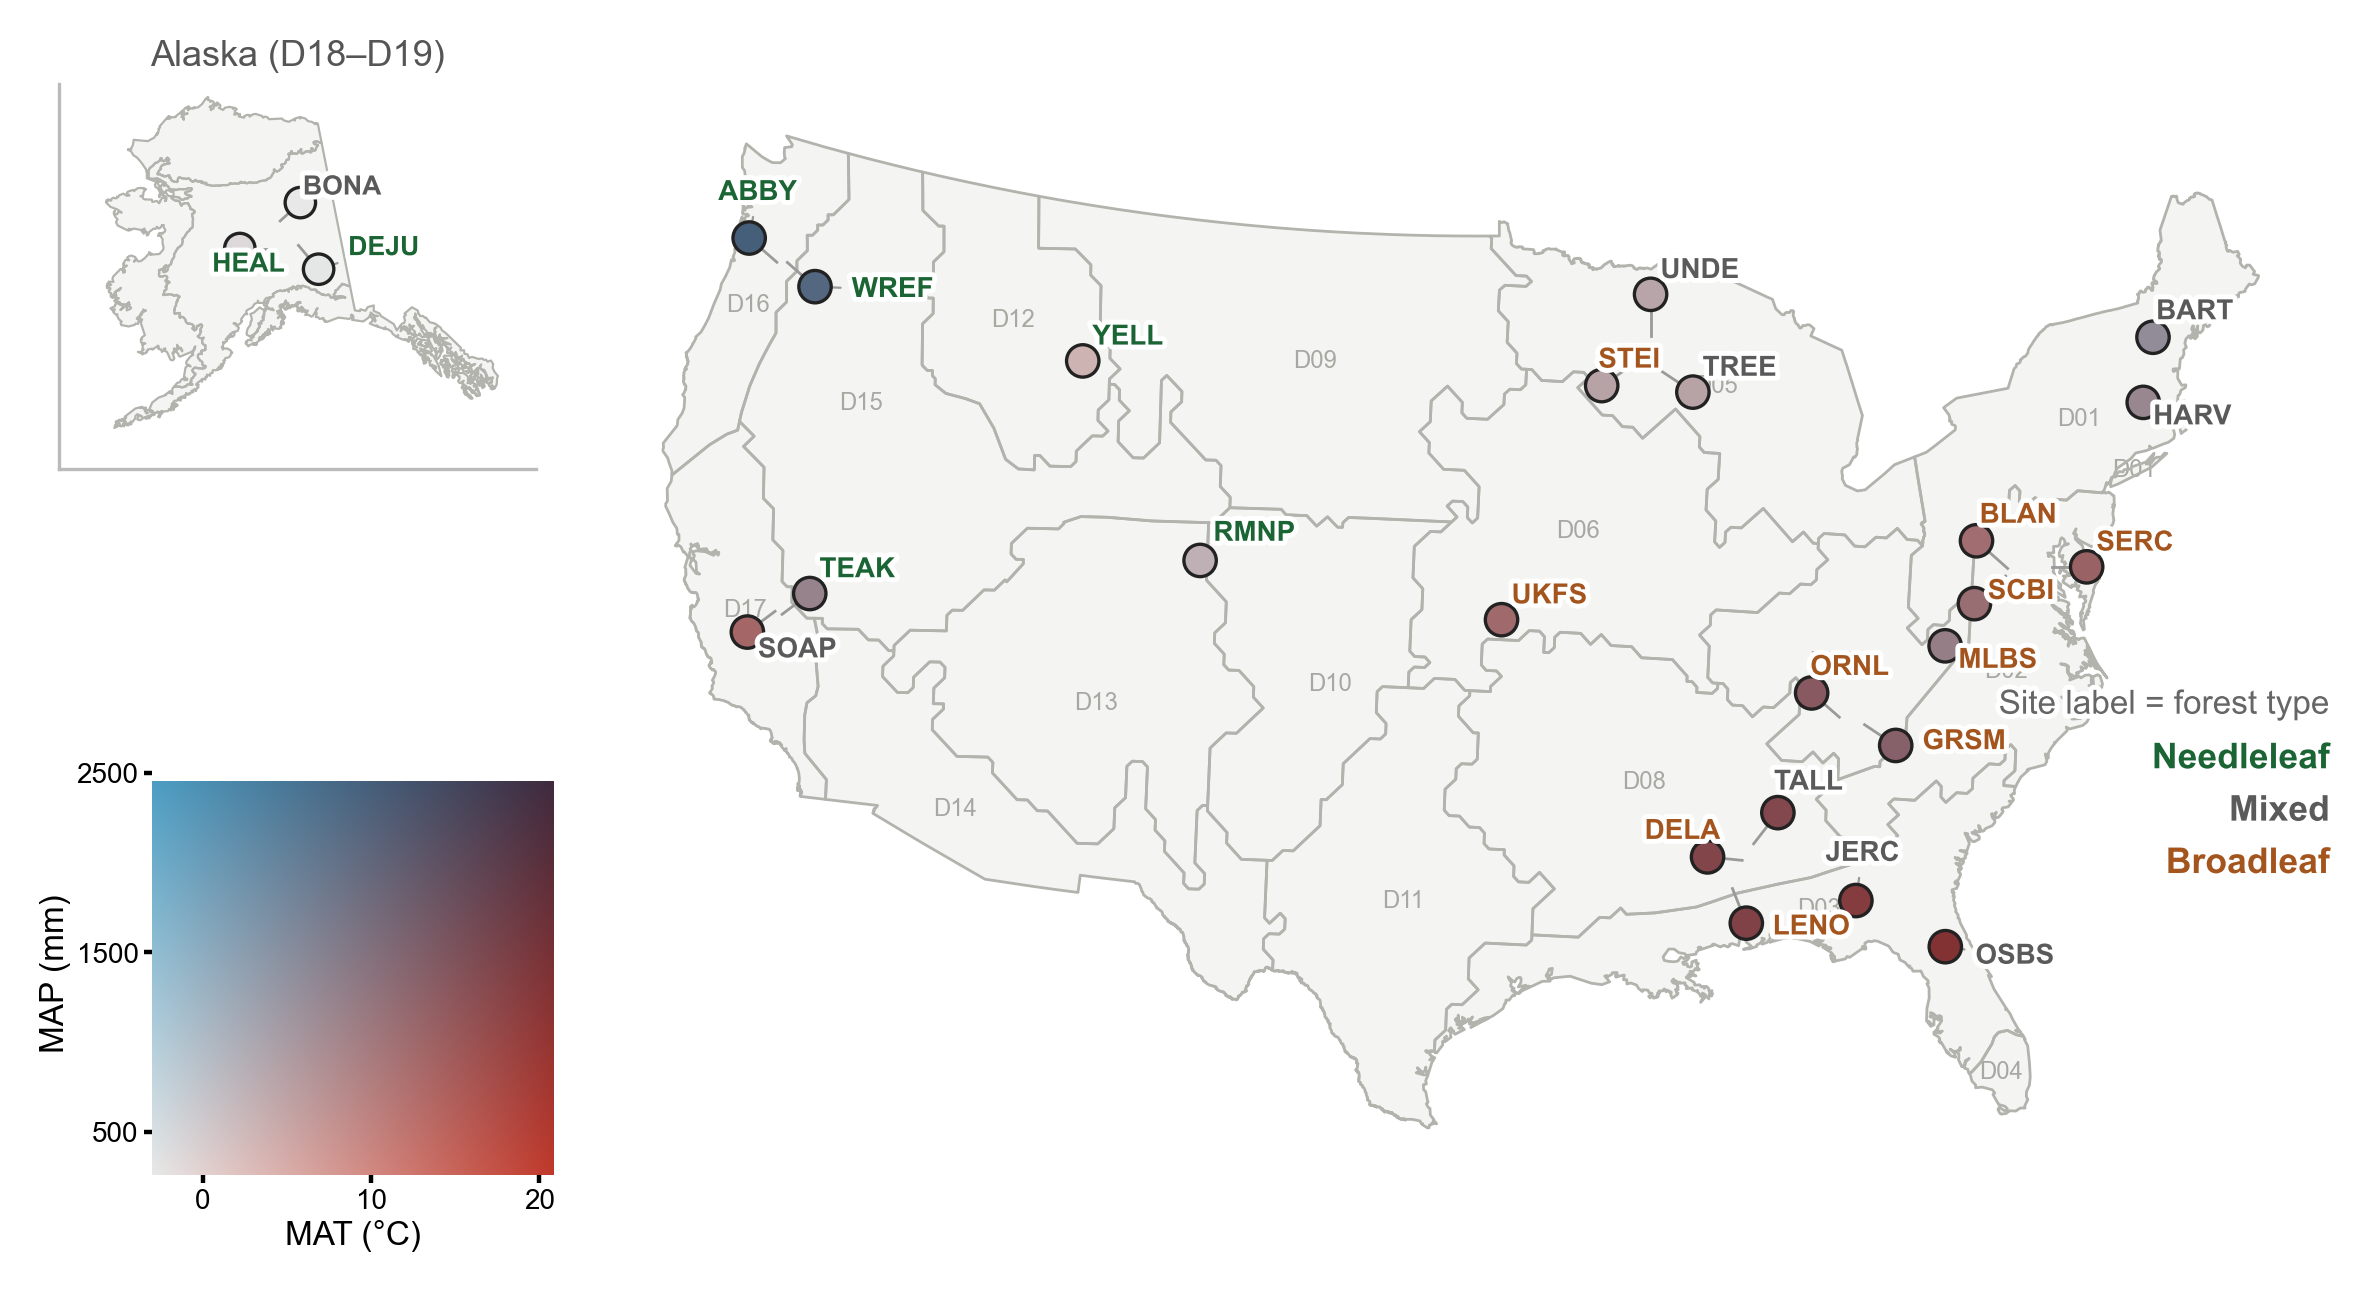
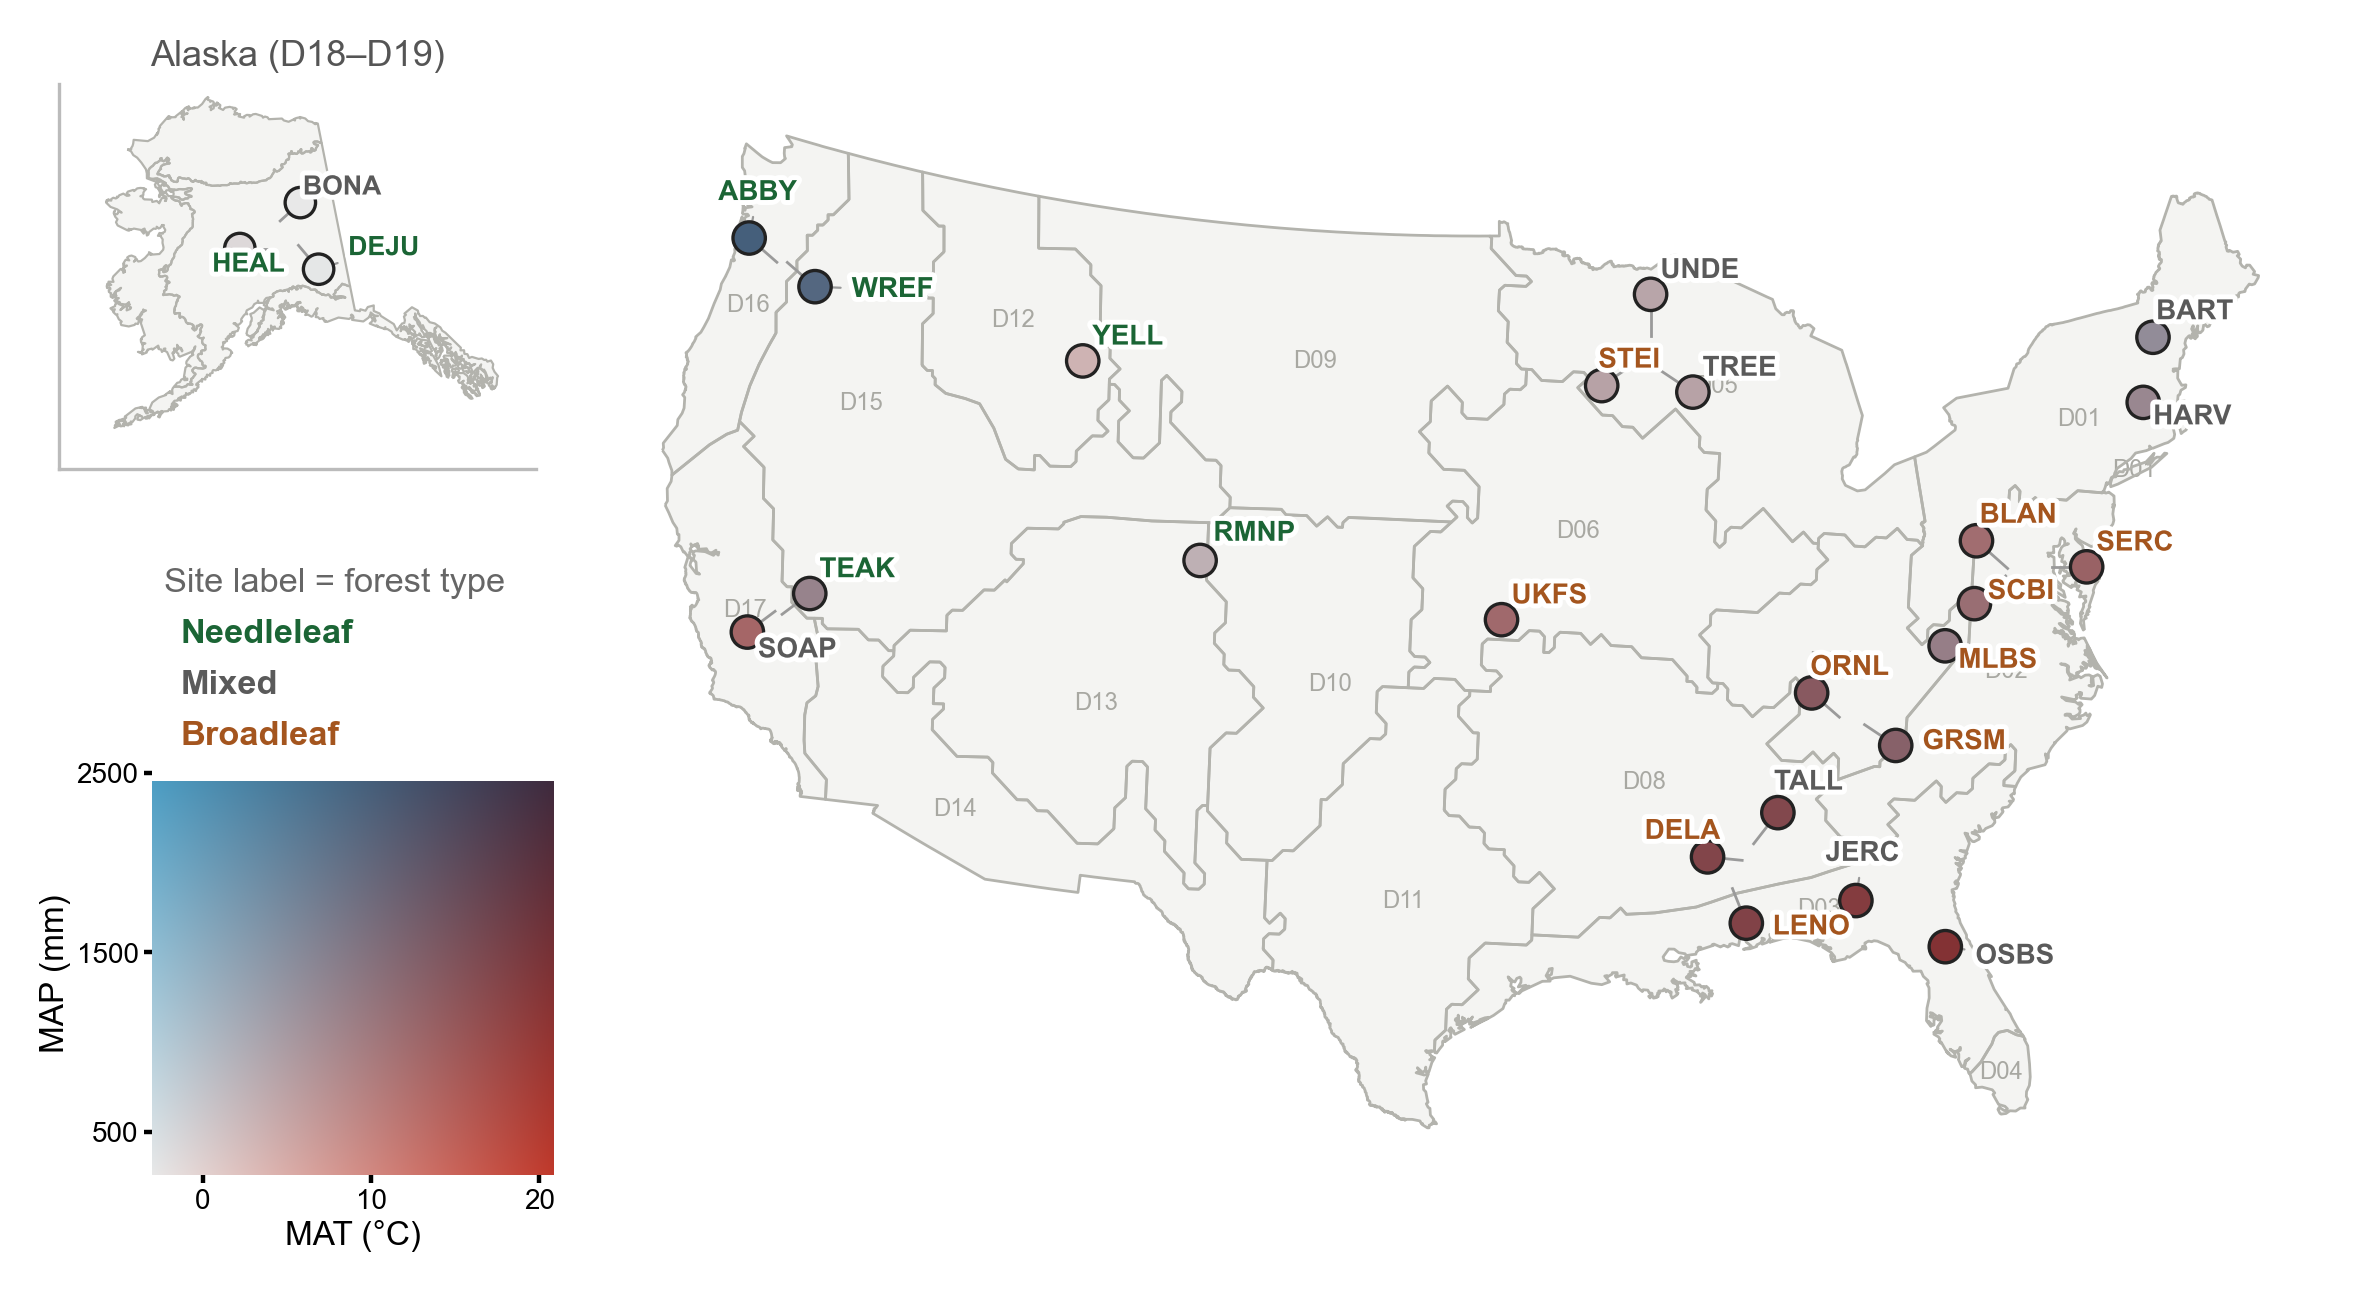
Fig 2: forest-type key stacked in the left column (above the climate gradient), fully clear of the map
Claude-Session: https://claude.ai/code/session_014QmjDFaec9SLSW3vnUrtQu

Changed region(s): [[0.8402, 0.5263, 0.9958, 0.6811], [0.0622, 0.4334, 0.2178, 0.5882]]

diff --git a/scripts_pipeline/make_manuscript_figures.py b/scripts_pipeline/make_manuscript_figures.py
@@ -165,10 +165,10 @@ for _,r in conus_dom.iterrows():
 usx,usy=draw_sites(axu,p48,DOTOFF,34)
 autolab(axu,usx,usy,p48.siteID.values,fs=5.0,colors=p48.labcol.values)
 axu.set_axis_off()
-# label-colour legend (forest type), Atlantic whitespace clear of Florida/OSBS
+# label-colour legend (forest type): left column, between the Alaska panel and the climate gradient
+fig.text(0.055,0.525,"Site label = forest type",fontsize=6.2,color="#666666")
 for i,(ft,c) in enumerate([("Needleleaf",FTC["Needleleaf"]),("Mixed",FTC["Mixed"]),("Broadleaf",FTC["Broadleaf"])]):
-    axu.text(0.995,0.375-0.048*i,ft,transform=axu.transAxes,ha="right",fontsize=6.4,fontweight="bold",color=c,path_effects=HALO)
-axu.text(0.995,0.425,"Site label = forest type",transform=axu.transAxes,ha="right",fontsize=6.0,color="#666666",path_effects=HALO)
+    fig.text(0.062,0.487-0.038*i,ft,fontsize=6.2,fontweight="bold",color=c)
 # --- continuous bivariate legend (MAT x MAP), bottom-left of the figure (below Alaska) ---
 _figw,_figh=fig.get_size_inches(); _lh=0.30; _lw=_lh*_figh/_figw   # square legend (in inches)
 lax=fig.add_axes([0.050,0.09,_lw,_lh])
